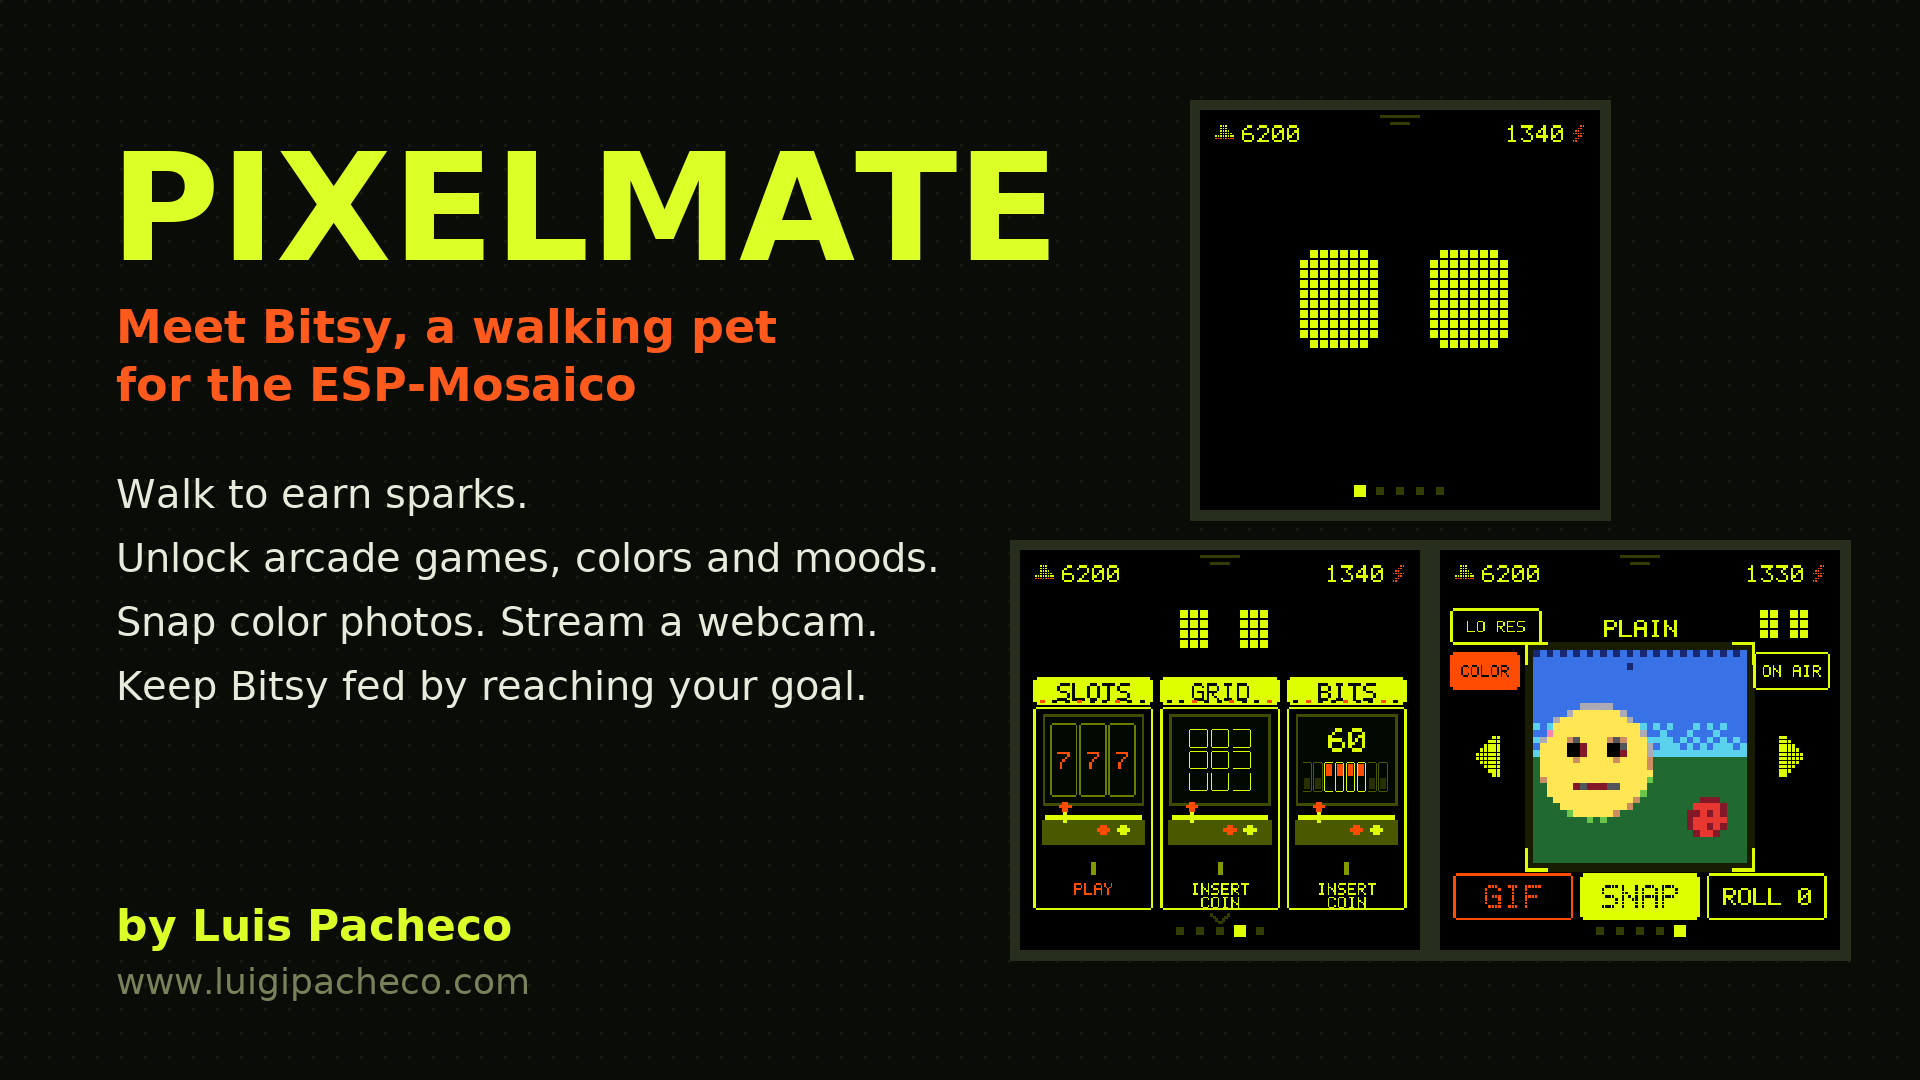
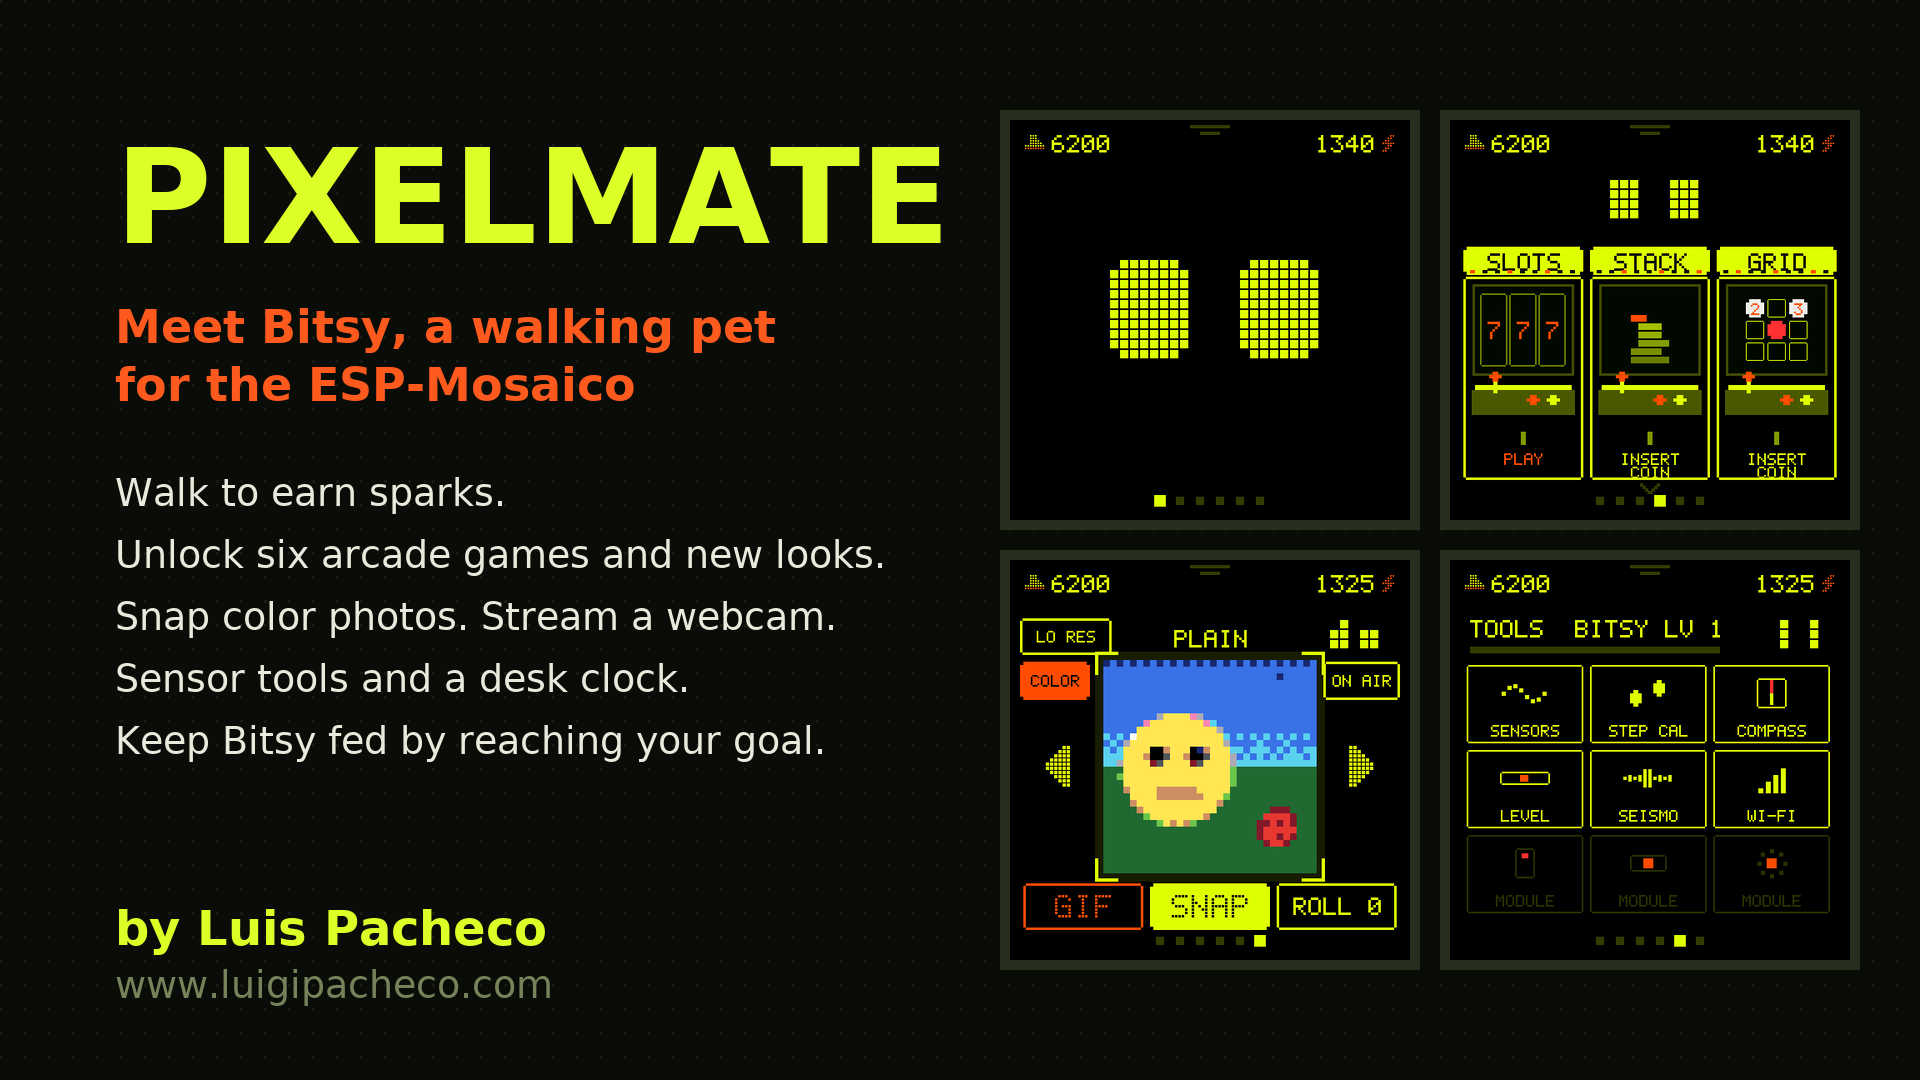
Refresh the Mosaico Ideas assets for v1.0.0
- Re-shoot the store screenshots with the current app: home, steps
  ring, arcade, Spark Grid with the LV badge, Bitsy Says, TOOLS, the
  photo booth in COLOR, clock mode and About. tools/screenshots.py now
  finds its project from its own folder (works in a worktree) and uses
  host action 8 for clock mode.
- tools/make_cover.py rebuilds ideas/cover.png (DejaVu fonts, credit).
- ideas/README.md covers the arcade payouts, Spark Grid levels, the new
  looks, TOOLS and the Interaction module, clock, pocket and TAP STEPS
  modes, and says what was tested on hardware.
- mosaico-ideas.json: new covers, About as a resource, a changelog.

diff --git a/tools/screenshots.py b/tools/screenshots.py
@@ -1,10 +1,13 @@
 """Capture PixelMate store/README screenshots with the Host simulator.
 
 usage (from the workspace root, MSYS2 ucrt64 gcc on PATH):
-    python projects/pixel_pal/tools/screenshots.py projects/pixel_pal/ideas/screens
+    python projects/pixel_pal/tools/screenshots.py projects/pixel_pal/ideas/screens [names...]
 
 Replays one scripted session (walk, unlock everything with the host-only
-action 9, visit each screen) and saves the frame at each checkpoint.
+action 9, visit each screen) and saves the frame at each checkpoint. The
+project is the folder this script lives in, so it also works from a git
+worktree. Host-only replay actions: 9 owns everything (+1000 sparks),
+8 pretends USB power (clock mode once the screen sleeps).
 """
 import json
 import os
@@ -57,42 +60,47 @@ wait(40)
 mark("01_home")
 next_page()
 mark("02_steps")
-next_page()
-mark("03_feed")
+next_page()                       # feed
 next_page()
 wait(30)
-mark("04_arcade")
-drag(240, 400, 240, 200, settle=30)   # row 2: BIT FLIP, BITSY SAYS, HI-LO
-tap(88, 290, 20)                  # BIT FLIP cabinet (row 2, first)
-tap(240, 412, 30)                 # PLAY
-tap(16 + 4 * 56 + 26, 308, 6)     # flip two switches
-tap(16 + 6 * 56 + 26, 308, 45)
-mark("05_bitflip")
-tap(64, 94, 20)                   # EXIT (lobby stays on row 2)
-tap(392, 290, 20)                 # HI-LO (row 2, third)
-tap(240, 394, 40)                 # DEAL
-mark("06_hilo")
+mark("03_arcade")                 # row 1: SLOTS, STACK, GRID
+tap(392, 290, 20)                 # SPARK GRID cabinet (row 1, third)
+tap(426, 158, 30)                 # PLAY
+tap(78, 152, 20)                  # flip three tiles (this replay's board: row 4 has no duds)
+tap(78, 308, 20)
+tap(234, 308, 30)
+mark("04_grid")
 tap(64, 94, 20)                   # EXIT
+drag(240, 400, 240, 200, settle=30)   # row 2: BIT FLIP, BITSY SAYS, HI-LO
+tap(240, 290, 20)                 # BITSY SAYS (row 2, middle)
+tap(240, 302, 30)                 # PLAY
+mark("05_says")                   # the red pad is lit and the eyes turn red
+wait(200)
+tap(64, 94, 20)                   # EXIT
+next_page()                       # TOOLS
+wait(30)
+mark("06_tools")
 next_page()                       # photo booth (host camera is plugged in)
 wait(30)
-tap(54, 145, 20)                  # film chip -> COLOR
+tap(54, 145, 30)                  # film chip -> COLOR
 mark("07_booth_color")
-tap(422, 145, 30)                 # ON AIR
-mark("08_webcam")
-tap(422, 145, 20)                 # off again
 drag(240, 30, 240, 230)           # menu
 tap(240, 253, 20)                 # SETTINGS
 drag(400, 240, 100, 240)
-tap(240, 202, 40)                 # ABOUT
+tap(240, 276, 40)                 # ABOUT (page 2: BRIGHTNESS, TAP STEPS, ABOUT, RESET)
 mark("09_about")
 drag(240, 400, 240, 100, settle=20)
+action(8)                         # host-only: pretend USB power
+wait(2400)                        # doze, screen off, clock
+mark("08_clock")
 
 
 def main():
     out = Path(sys.argv[1]).resolve()
     out.mkdir(parents=True, exist_ok=True)
-    workspace = Path(__file__).resolve().parents[3]
-    project = "projects/pixel_pal"
+    project_dir = Path(__file__).resolve().parents[1]
+    workspace = project_dir.parents[1]
+    project = project_dir.relative_to(workspace).as_posix()
     replay = out / "replay.json"
     replay.write_text(json.dumps({"events": sorted(events, key=lambda e: e["frame"])}))
     env = dict(os.environ)
@@ -105,10 +113,11 @@ def main():
                            cwd=workspace, env=env, capture_output=True, text=True)
         if r.returncode:
             sys.exit(f"{name} failed: {r.stderr[-1500:]}")
-        shutil.copy(workspace / project / "build-host" / "frame.png", out / f"{name}.png")
+        shutil.copy(project_dir / "build-host" / "frame.png", out / f"{name}.png")
         s = json.loads(state.read_text())
         state.unlink()
-        print(f"{name:16s} screen={s['screen']} overlay={s['overlay']} arcade={s.get('arcade')}")
+        print(f"{name:16s} frame={marks[name]} screen={s['screen']} overlay={s['overlay']} "
+              f"arcade={s.get('arcade')} power={s.get('power')}")
     replay.unlink()
 
 

diff --git a/tools/make_cover.py b/tools/make_cover.py
@@ -1,0 +1,69 @@
+"""Build ideas/cover.png (1920x1080) for Mosaico Ideas from the screenshots.
+
+usage (any folder; needs Pillow):
+    python projects/pixel_pal/tools/make_cover.py
+
+Run tools/screenshots.py first. Text uses the DejaVu fonts in ideas/fonts.
+"""
+from pathlib import Path
+
+from PIL import Image, ImageDraw, ImageFont
+
+IDEAS = Path(__file__).resolve().parents[1] / "ideas"
+W, H = 1920, 1080
+BG, DOT, FRAME = (10, 12, 8), (22, 26, 16), (40, 46, 30)
+YELLOW, ORANGE, TEXT, GREY = (220, 255, 40), (255, 90, 30), (230, 235, 220), (120, 130, 90)
+SHOTS = ["01_home", "03_arcade", "07_booth_color", "06_tools"]   # 2x2, reading order
+TILE, BORDER, GAP = 400, 10, 20
+LEFT = 115
+
+
+def font(bold, size):
+    return ImageFont.truetype(str(IDEAS / "fonts" / ("DejaVuSans-Bold.ttf" if bold else "DejaVuSans.ttf")), size)
+
+
+def main():
+    im = Image.new("RGB", (W, H), BG)
+    d = ImageDraw.Draw(im)
+    for y in range(0, H, 24):
+        for x in range(0, W, 24):
+            d.rectangle((x, y, x + 2, y + 2), fill=DOT)
+
+    # Screens: a 2x2 grid on the right.
+    cell = TILE + 2 * BORDER
+    x0 = W - 60 - (2 * cell + GAP)
+    y0 = (H - (2 * cell + GAP)) // 2
+    for i, name in enumerate(SHOTS):
+        x = x0 + (i % 2) * (cell + GAP)
+        y = y0 + (i // 2) * (cell + GAP)
+        d.rectangle((x, y, x + cell - 1, y + cell - 1), fill=FRAME)
+        shot = Image.open(IDEAS / "screens" / f"{name}.png").convert("RGB").resize((TILE, TILE), Image.LANCZOS)
+        im.paste(shot, (x + BORDER, y + BORDER))
+
+    # Text on the left, sized to stay clear of the screens.
+    room = x0 - LEFT - 50
+    size = 150
+    while d.textlength("PIXELMATE", font=font(True, size)) > room:
+        size -= 2
+    d.text((LEFT, 120), "PIXELMATE", font=font(True, size), fill=YELLOW)
+    sub = font(True, 46)
+    d.text((LEFT, 300), "Meet Bitsy, a walking pet", font=sub, fill=ORANGE)
+    d.text((LEFT, 358), "for the ESP-Mosaico", font=sub, fill=ORANGE)
+    body = font(False, 38)
+    lines = [
+        "Walk to earn sparks.",
+        "Unlock six arcade games and new looks.",
+        "Snap color photos. Stream a webcam.",
+        "Sensor tools and a desk clock.",
+        "Keep Bitsy fed by reaching your goal.",
+    ]
+    for i, line in enumerate(lines):
+        d.text((LEFT, 470 + i * 62), line, font=body, fill=TEXT)
+    d.text((LEFT, 900), "by Luis Pacheco", font=font(True, 48), fill=YELLOW)
+    d.text((LEFT, 962), "www.luigipacheco.com", font=font(False, 38), fill=GREY)
+    im.save(IDEAS / "cover.png", optimize=True)
+    print(f"cover.png {W}x{H}, title {size}px")
+
+
+if __name__ == "__main__":
+    main()

diff --git a/ideas/README.md b/ideas/README.md
@@ -4,8 +4,9 @@
 
 **PixelMate** turns your ESP-Mosaico into **Bitsy**, a pixel-art robot pet that
 lives on your steps. Walk and Bitsy gets fed; skip a day and it gets hungry.
-Every 20 steps earns a **spark**, and sparks buy everything else: eye colors,
-pixel styles, moods, arcade games, a photo booth and even a Wi-Fi webcam.
+Every 20 steps earns a **spark**, and sparks buy everything else: six arcade
+games, eye colors, pixel styles, animations, a photo booth with retro looks
+and even a Wi-Fi webcam.
 
 It is inspired by the pocket step-counter pets of the '90s, with an original
 character: just a pair of expressive pixel eyes.
@@ -16,23 +17,101 @@ Made by **Luis Pacheco**: [www.luigipacheco.com](https://www.luigipacheco.com)
 
 | | |
 |---|---|
-| ![Bitsy](screens/01_home.png) | **Bitsy** reacts to everything: blinks, follows your finger, gets happy, sleepy, hungry or grumpy. |
+| ![Bitsy](screens/01_home.png) | **Bitsy** reacts to everything: blinks, follows your finger, gets happy, sleepy, hungry, surprised or grumpy. Tap the eyes to pet it. |
 | ![Steps](screens/02_steps.png) | **Steps ring** with today's progress, your all-time total and Bitsy's health (5 hearts). The BMI270's own step counter keeps counting while the screen sleeps. |
-| ![Feed](screens/03_feed.png) | **Feed** Bitsy snacks with sparks. To stay healthy it needs half your daily goal in steps; a missed day costs a heart. |
-| ![Arcade](screens/04_arcade.png) | **Arcade** of pixel cabinets, unlocked in order: Spark Slots, Spark Stack, Spark Grid, Bit Flip, Bitsy Says and HI-LO. Each costs a few sparks a play. |
-| ![Bit Flip](screens/05_bitflip.png) | **Bit Flip**: set eight switches to the target number in binary before the timer runs out. |
-| ![HI-LO](screens/06_hilo.png) | **HI-LO**: double or nothing. Guess whether the next card is higher or lower, and cash out before you lose it all. |
-| ![Photo booth](screens/07_booth_color.png) | **Photo booth** (needs the camera module): low-res photos and GIFs with retro looks (dither, scanlines, game-green, thermal, ASCII, halftone, glitch, edges, pop, mirror, CRT) and **COLOR FILM**. Plug the camera in or out at any time. |
-| ![Webcam](screens/08_webcam.png) | **Wi-Fi webcam**: tap ON AIR and watch Bitsy's camera in a browser, or bring it into Zoom/Meet through OBS's virtual camera. |
-| ![About](screens/09_about.png) | **Settings**: volume, daily goal, Wi-Fi, screen sleep, brightness, about and reset. |
+| ![Arcade](screens/03_arcade.png) | **Arcade**: six pixel cabinets in two rows (Spark Slots, Spark Stack, Spark Grid / Bit Flip, Bitsy Says, HI-LO), each with an attract-mode demo. Buy them in order with sparks, then play for more. |
+| ![Spark Grid](screens/04_grid.png) | **Spark Grid**: a 5×5 logic puzzle. Row and column hints tell you the totals and how many duds hide in each line. Flip x2 and x3 tiles to multiply your score, CASH to bank it, and clear boards to climb from LV 1 to LV 5. |
+| ![Bitsy Says](screens/05_says.png) | **Bitsy Says**: Bitsy's eyes take the color of each pad as it flashes a growing sequence. Repeat it back. |
+| ![Tools](screens/06_tools.png) | **TOOLS**: a Flipper-style page of sensor apps: live SENSORS graphs, STEP CAL, COMPASS and metal detector, LEVEL, SEISMO and a WI-FI scanner. Using them levels Bitsy up. |
+| ![Photo booth](screens/07_booth_color.png) | **Photo booth** (needs a camera module): low-res photos and GIFs in black and white or **COLOR FILM**, with retro looks. Plug the camera in or out at any time. |
+| ![Clock](screens/08_clock.png) | **Clock mode**: on USB power, when Bitsy dozes off the screen becomes a dim pixel clock, with Bitsy's eyes as the blinking colon, the date and today's steps. |
 
-Plus a **stats web page** on your network (`http://pixelmate.local`) with
-today's steps, battery and the photo booth gallery.
+## The arcade
+
+Every game is bought in the store, in this order. Each play costs a few sparks
+and good play pays them back with interest.
+
+| Game | Unlock | A play | Pays |
+|---|---|---|---|
+| **Spark Slots**: stop each of the three reels yourself | 100 | 3 | 7-7-7 pays 150. Pure luck, with a house edge. |
+| **Spark Stack**: drop a sliding bar on the tower; the overhang is cut off | 150 | 5 | Only reaching the top (12 rows) pays: 20, +2 per perfect drop, up to 40. |
+| **Spark Grid**: flip tiles, dodge the duds | 200 | 10 | The score multiplies with each flip. Level 1 boards pay 24 to 54, level 5 up to 576. A dud or CASH drops you back to the number of tiles you flipped. Long-press a tile for memo marks. |
+| **Bit Flip**: set 8 switches to the target number in binary before the timer runs out | 250 | 5 | 1 per hit, up to 30. The timer gets shorter with every hit. |
+| **Bitsy Says**: repeat the color sequence | 300 | 5 | 1 per round, up to 30. |
+| **HI-LO**: higher or lower, double or nothing | 400 | 5 | Each right guess doubles the pot; cash out any time (automatically after 5 wins). |
+
+## Photo booth and webcam
+
+Plug an OV3640 or SC101IOT camera board into the **left** slot and a Booth page
+appears after TOOLS (buy PHOTO BOOTH for 300 sparks). Tap **SNAP** for a 3-2-1
+photo or **GIF** for an 8-frame clip; **ROLL** browses and deletes them.
+
+- **Lenses:** LO RES 32×32 is free; MID RES 64×64 and HI RES 128×128 are sold.
+- **Film:** black and white in the pet's palette, or **COLOR FILM** for real
+  16-color photos.
+- **Looks:** PLAIN, DITHER, SCANLINES, GAME-GREEN, HALFTONE, THERMAL, ASCII,
+  GLITCH (VHS tears), EDGES (glowing outlines), POP (poster colors), MIRROR
+  (symmetric selfies) and CRT (old TV stripes).
+- Up to 12 photos and 2 GIFs are kept on the board, and the stats page has a
+  gallery to save them as PNG or GIF.
+
+**Wi-Fi webcam:** buy **WEBCAM** in the store, open the booth and tap
+**ON AIR**. The screen shows a 4-digit code; open
+`http://pixelmate.local:81/cam?k=CODE` on a computer on the same network. For
+Zoom or Meet, add that address to OBS Studio as a Media Source (or Browser
+source), click **Start Virtual Camera** and pick **OBS Virtual Camera** in your
+call app. The stream is small and retro (about 10 frames a second), and it only
+runs while ON AIR is lit.
+
+## TOOLS and the Interaction module
+
+The TOOLS page (after the arcade) turns the board's sensors into little apps.
+Each use earns Bitsy tools XP, and it levels up every 10.
+
+- **SENSORS:** live graphs of the accelerometer, gyroscope, magnetometer,
+  battery voltage and current, and steps.
+- **STEP CAL:** walk 50 counted steps to correct the step counter (saved).
+- **COMPASS / METAL:** uses the board's magnetometers; the metal detector beeps
+  faster near metal.
+- **LEVEL** (a bubble level, tap to zero), **SEISMO** (a vibration trace) and a
+  **WI-FI** network scanner.
+
+With the **Interaction module** in the **right** slot, three more tools appear:
+**IR REMOTE** (power, volume, channel and a TV-OFF blast), **GUARD** (a motion
+alarm that counts visitors) and **LIGHT** (a light meter and a lamp). The
+module's LEDs glow with Bitsy's mood, walking past wakes Bitsy, and its two
+keys work as arcade buttons.
+
+## Made for every day
+
+- **Feed** Bitsy snacks (CELL, CHIP, MEGA) with sparks. To stay healthy it
+  needs half your daily goal in steps; fed days add a heart, missed days take
+  one, and at zero Bitsy faints until you walk again.
+- **Style:** eye colors, FINE or SMOOTH pixels, and animations: a spark trail
+  as you walk, a dance every 100 steps, star eyes and rainbow eyes.
+- **Sound:** short 8-bit blips for sparks, petting, eating, buying and every
+  arcade game, and a jingle when Bitsy is fed.
+- **Low-energy:** after 20 s without a touch Bitsy dozes and the screen dims;
+  at 30 s it turns off. Steps keep counting. Tap the screen or press the AI
+  button to wake it.
+- **Pocket mode:** on battery, a few seconds after the screen goes dark Wi-Fi
+  stops and the app naps to save power while the step counter keeps counting.
+  Press the AI button to wake Bitsy.
+- **TAP STEPS** (Settings, off by default): an accessibility mode for people
+  who can't walk. Every 10 pats on Bitsy count as one step, with no daily cap.
+- **Stats web page** on your network (`http://pixelmate.local`): today's
+  steps, food, health, a 7-day chart, your streak, sparks, battery and the
+  photo gallery.
+- **Settings** in the pull-down menu: volume, daily goal (1000 to 30000),
+  Wi-Fi, screen sleep, brightness, TAP STEPS, About and reset.
+
+![About](screens/09_about.png)
 
 ## Hardware
 
 - ESP-Mosaico (ESP32-S31) with its 480×480 touch screen, BMI270 IMU and speaker.
-- Optional: the camera module in the left slot, for the photo booth and webcam.
+- Optional: a camera module in the left slot, for the photo booth and webcam.
+- Optional: the Interaction module in the right slot, for IR, motion and light.
 - Battery recommended: PixelMate shows the charge, dims and sleeps to save power.
 
 ## Getting started
@@ -40,30 +119,28 @@ today's steps, battery and the photo booth gallery.
 1. Install PixelMate from Mosaico Ideas and open it.
 2. Walk! Sparks arrive as you go (20 steps = 1 spark). Pull down from the top
    edge for the menu: STORE, STYLE and SETTINGS.
-3. Swipe left and right between Bitsy, the steps ring, feeding, the arcade and
-   (with the camera plugged in) the photo booth.
-4. Optional Wi-Fi: PixelMate uses the board's saved Wi-Fi. To set up a new
-   network, open **Settings → Wi-Fi → SET UP**, join the `PIXELMATE-XXXX`
-   hotspot from your phone and pick your network. Then open
-   `http://pixelmate.local`.
-
-### Webcam
-
-Buy **WEBCAM** in the store, open the photo booth and tap **ON AIR**. The
-screen shows a 4-digit code; open `http://pixelmate.local:81/cam?k=CODE` on a
-computer on the same network. For Zoom or Meet, add that address to OBS
-Studio as a Media Source (or Browser source), click **Start Virtual Camera**,
-and pick **OBS Virtual Camera** in your call app. The stream is small and
-retro (about 10 frames a second), and it only runs while ON AIR is lit.
+3. Swipe left and right between Bitsy, the steps ring, feeding, the arcade,
+   TOOLS and (with a camera plugged in) the photo booth.
+4. Optional Wi-Fi: PixelMate uses the Wi-Fi saved in Vibe Mode. To set up a
+   different network, pull down the menu and tap **SET UP WIFI** (or the
+   network line), join the `PIXELMATE-XXXX` hotspot from your phone and pick
+   your network. Then open `http://pixelmate.local`.
 
 ## Good to know
 
-- The pet saves to the board's storage and survives restarts.
-- Daily health needs the real date, which comes from Wi-Fi time sync.
+- Bitsy saves to the board's storage and survives restarts.
+- Daily health needs the real date, which comes from Wi-Fi time sync. Clock
+  mode needs it too.
 - Anyone on your Wi-Fi network can open the stats page and photo gallery; the
   webcam always needs the code shown on the screen.
-- Version 1.0.0 was developed and tested on one ESP-Mosaico board and in the
-  host simulator.
+- Version 1.0.0 is a one-person project, developed on one ESP-Mosaico board
+  (with an SC101IOT camera module) and in the host simulator. Checked on the
+  board: step counting with the screen off, saving, battery readout, dimming
+  and sleep, Wi-Fi with the stats page and daily health, sounds, and the photo
+  booth with hot-plugging. The TOOLS page and Interaction module support are
+  the newest parts and have had the least time on real hardware; the Wi-Fi
+  setup hotspot has not been tried from a phone yet, and the OV3640 camera is
+  supported but untested. Feedback is welcome.
 
 ## Coming next
 

diff --git a/ideas/CHANGELOG.md b/ideas/CHANGELOG.md
@@ -1,0 +1,14 @@
+# PixelMate 1.0.0
+
+First public release of PixelMate, with Bitsy the walking pixel pet.
+
+- Steps become sparks (20 steps = 1 spark); Bitsy needs half your daily goal
+  in steps to stay healthy.
+- Six arcade games: Spark Slots, Spark Stack, Spark Grid (levels 1-5),
+  Bit Flip, Bitsy Says and HI-LO.
+- Store with eye colors, pixel styles and animations.
+- Photo booth for the camera module: three lenses, COLOR FILM, twelve looks,
+  GIFs, a web gallery and a Wi-Fi webcam.
+- TOOLS page with sensor apps, plus Interaction module support.
+- Clock mode on USB power, pocket mode on battery, TAP STEPS accessibility
+  mode, 8-bit sounds, Wi-Fi setup hotspot and a stats web page.
